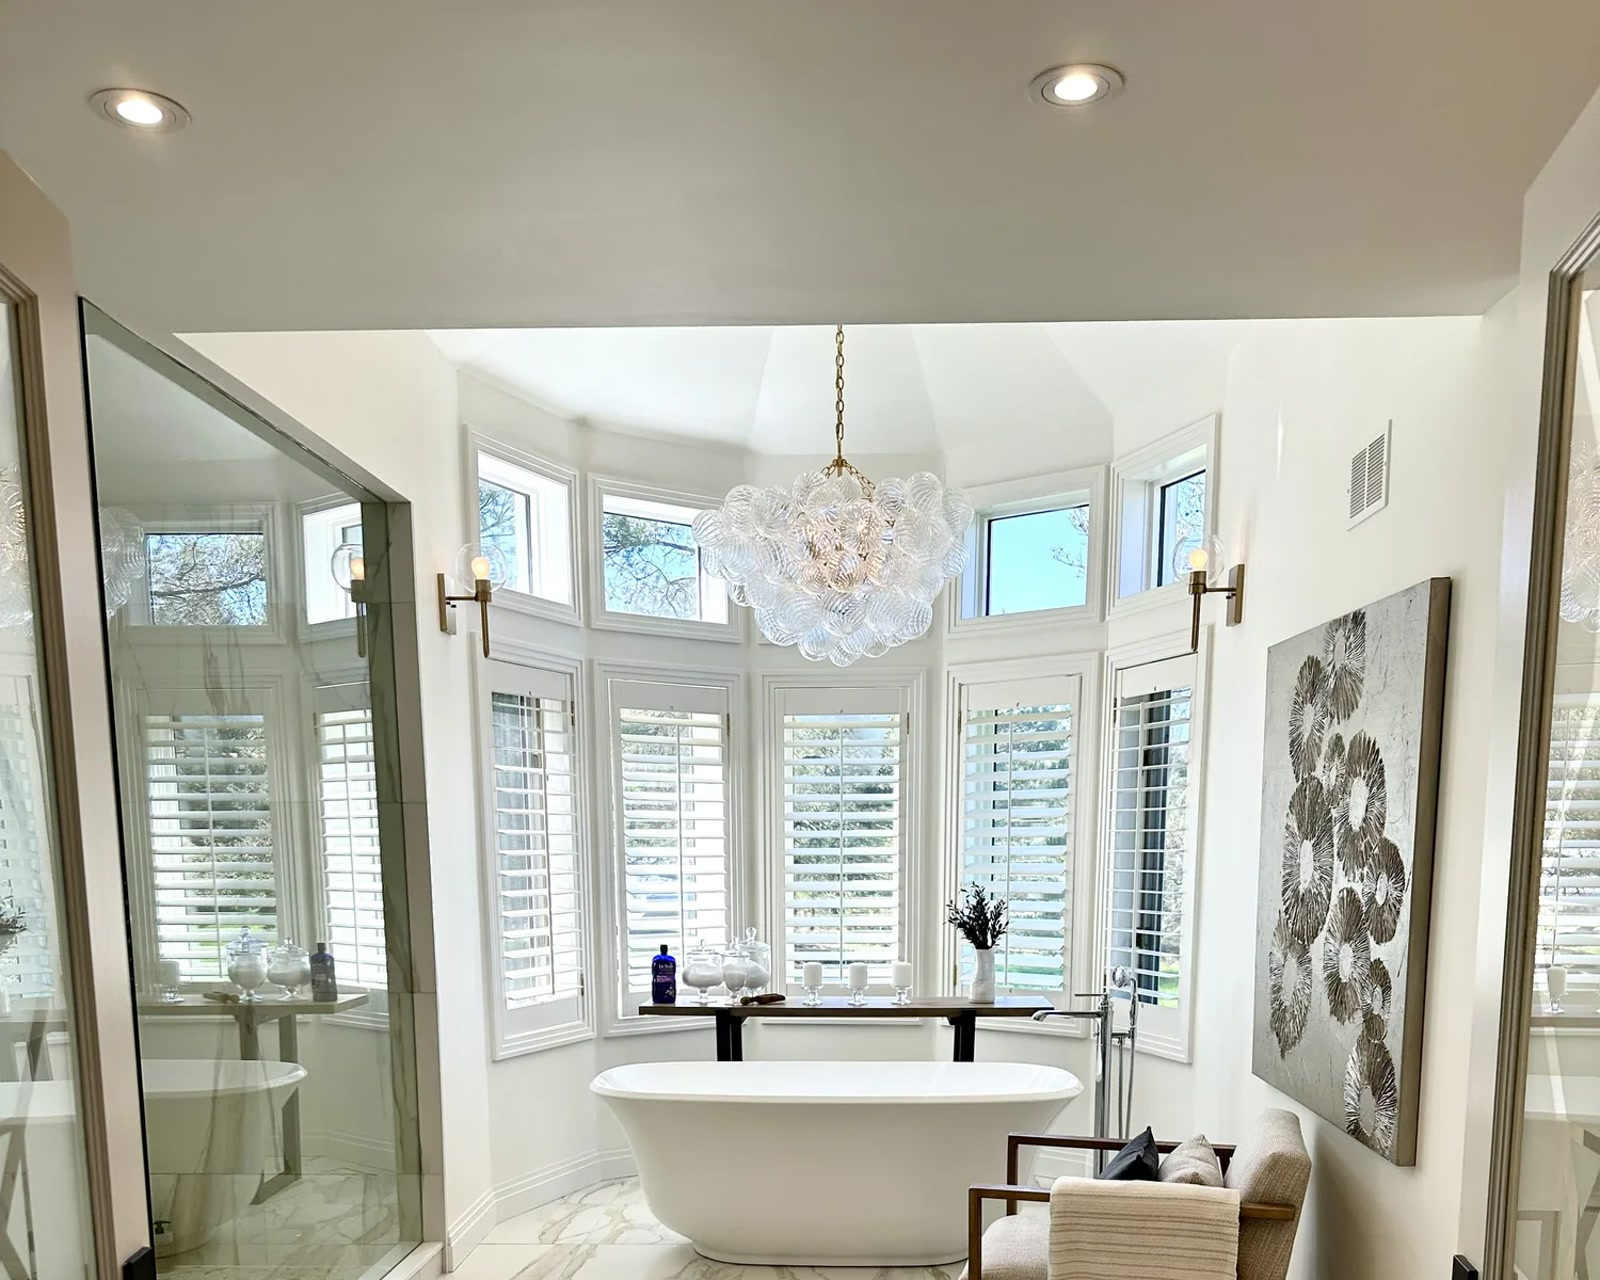
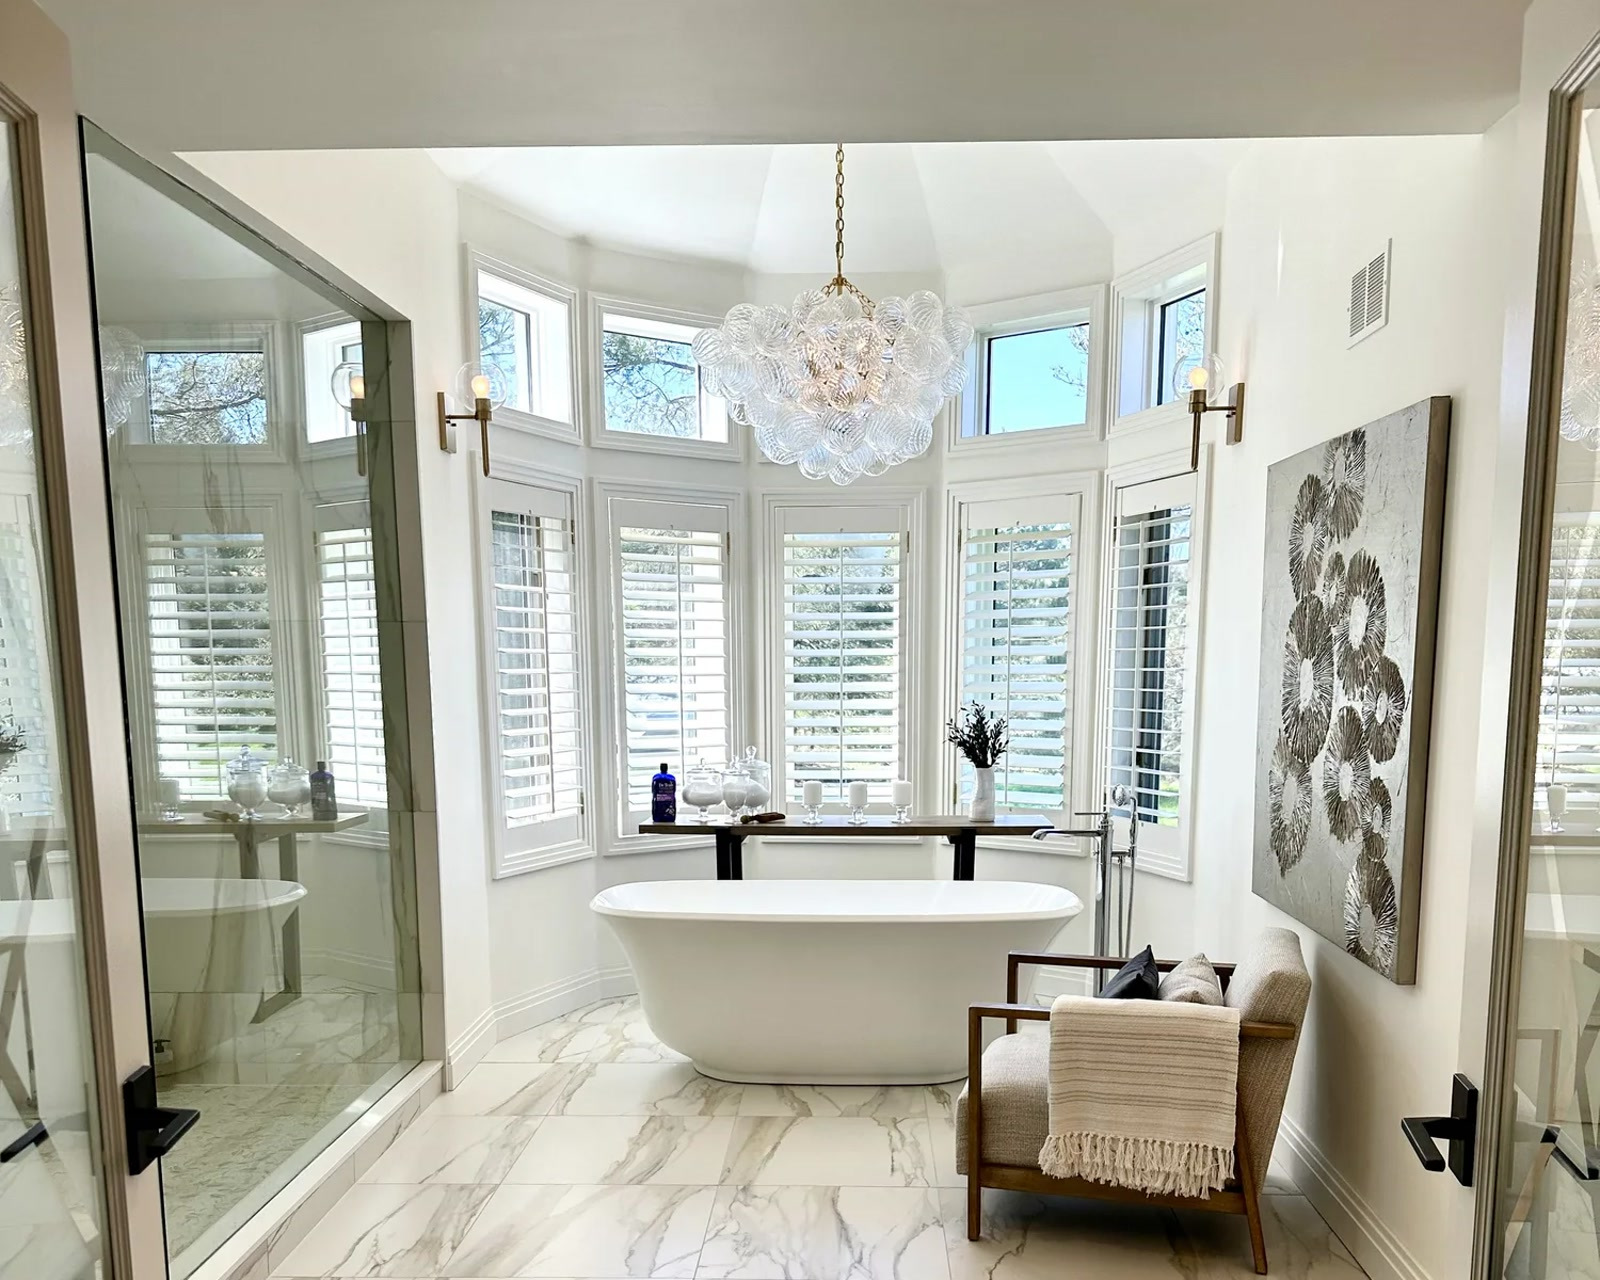
Run the journey on tablets and phones: viewport modes replace pointer gates, runtime sticky check, animated fallback, aligned bathroom pair
Claude-Session: https://claude.ai/code/session_01G3nq39hd5hgnwRfE8Lor9x

diff --git a/gohardcorp/index.html b/gohardcorp/index.html
@@ -75,7 +75,7 @@ body.paused *,body.paused *::before,body.paused *::after{animation-play-state:pa
 @media (pointer:coarse){.btn{min-height:44px}}
 
 /* ---------- the journey (pinned, scroll-driven) ---------- */
-.journey{position:relative;height:760vh}
+.journey{position:relative;height:760vh;height:760svh}
 .stage{position:sticky;top:0;height:100vh;height:100svh;overflow:hidden;background:var(--canvas)}
 .layer{position:absolute;inset:0;will-change:transform,opacity,clip-path}
 .poster,.stage video,.layer img{position:absolute;inset:0;width:100%;height:100%;object-fit:cover;background-size:cover;background-position:center}
@@ -146,9 +146,22 @@ body.paused *,body.paused *::before,body.paused *::after{animation-play-state:pa
 .stack .sc p{margin:12px 0 18px;max-width:38ch;text-shadow:var(--tshadow)}
 .stack .sc .mk{width:64px;height:44px;margin-bottom:14px}
 .stack .sc .row{display:flex;gap:10px;flex-wrap:wrap}
-@media (max-width:720px),(orientation:portrait) and (max-width:1024px),(orientation:portrait) and (pointer:coarse),(orientation:landscape) and (pointer:coarse) and (max-height:560px),(prefers-reduced-motion:reduce){
-  .journey{display:none}.stack{display:block}
+/* modes: full (tablets, laptops, desktops), lite (phones: same pinned journey, stills instead of the film), stack (reduced motion, or sticky proven broken at runtime) */
+body.mode-stack .journey{display:none}body.mode-stack .stack{display:block}
+.ch-video .ending{position:absolute;inset:0;background:url('assets/hero-ending.jpg') center/cover no-repeat;opacity:0}
+body.mode-lite .ch-video .poster,body.mode-lite .ch-video .ending,.stage.video-failed .poster,.stage.video-failed .ending{transform:scale(calc(1 + .12*var(--hold,0)))}
+body.mode-lite .ch-video .ending,.stage.video-failed .ending{opacity:clamp(0,(var(--hold,0) - .35)*1.8,1)}
+@media (max-width:1024px){.band h1,.band h2{font-size:clamp(34px,6.6vw,64px)}.ch-kitchen img{filter:none}}
+@media (max-width:600px){
+  .band{max-width:88vw}.band h1,.band h2{font-size:clamp(30px,9.4vw,46px)}.band p{font-size:15px}.band .mk{width:56px;height:38px;margin-bottom:12px}
+  .b-arrive{top:13vh;left:6vw}.b-enter{left:6vw;right:6vw;bottom:14vh;text-align:left}.b-enter h2{font-size:clamp(28px,8.6vw,40px)}
+  .b-kitchen,.b-ext{left:6vw;bottom:12vh}.b-bath{left:6vw;right:6vw;top:14vh;text-align:left}.b-bath .row{justify-content:flex-start}
+  .b-deck{bottom:8vh}.b-deck h2{font-size:clamp(26px,8vw,38px)}.band .row{gap:8px}.band .btn{padding:11px 16px;font-size:14px}
+  .hud{left:12px;bottom:12px}.hud .chip{font-size:10.5px;padding:5px 9px}.cue{display:none}
 }
+/* the stacked fallback still animates: --sp is each card's scroll progress */
+.stack .sc img,.stack .sc .bg{transform:scale(calc(1.16 - .16*var(--sp,0)));clip-path:inset(calc((1 - var(--sp,0))*6%) round calc((1 - var(--sp,0))*24px))}
+.stack .sc .tx{opacity:clamp(0,(var(--sp,0) - .25)*2.2,1);transform:translateY(calc((1 - clamp(0,(var(--sp,0) - .25)*2.2,1))*22px))}
 @media (max-height:560px){.cue,.ring,.hud{display:none}}
 
 /* ---------- chalk line signature ---------- */
@@ -307,6 +320,7 @@ footer .fine{grid-column:1/-1;font-size:12.5px;opacity:.7;margin-top:10px}
   .ba{cursor:default}.ba .after{clip-path:inset(0 0 0 50%)}.ba .handle{left:50%}
   .proc .rail i{width:100%}.proc .bubble{left:100%}
   .env::before,.env i{display:none}
+  .stack .sc img,.stack .sc .bg{transform:none;clip-path:none}.stack .sc .tx{opacity:1;transform:none}
 }
 </style>
 </head>
@@ -335,13 +349,14 @@ footer .fine{grid-column:1/-1;font-size:12.5px;opacity:.7;margin-top:10px}
     <div class="layer ch ch-video" id="ch-video" data-a="0" data-b="0.30" data-ti="0" data-to="0.06">
       <div class="poster" id="poster" aria-hidden="true"></div>
       <video id="hero-video" preload="none" muted playsinline aria-hidden="true" tabindex="-1"></video>
+      <div class="ending" aria-hidden="true"></div>
       <div class="scrim" aria-hidden="true"></div>
     </div>
     <div class="bloom" id="bloom" aria-hidden="true"></div>
-    <div class="layer ch ch-kitchen" data-a="0.30" data-b="0.50" data-ti="0.05" data-to="0.05"><img src="assets/kitchen.jpg" alt="" width="1600" height="2207"><div class="shade"></div><div class="veil"></div></div>
-    <div class="layer ch ch-bath" data-a="0.50" data-b="0.68" data-ti="0.06" data-to="0.05"><img src="assets/bath-after.jpg" alt="" width="1600" height="1280"><div class="shade"></div><div class="veil"></div></div>
-    <div class="layer ch ch-ext" data-a="0.68" data-b="0.84" data-ti="0.06" data-to="0.05"><img src="assets/exterior.jpg" alt="" width="1920" height="1152"><div class="shade"></div><div class="veil"></div></div>
-    <div class="layer ch ch-deck" data-a="0.84" data-b="1" data-ti="0.06" data-to="0"><img src="assets/deck.jpg" alt="" width="1600" height="1818"><div class="shade"></div></div>
+    <div class="layer ch ch-kitchen" data-a="0.30" data-b="0.50" data-ti="0.07" data-to="0.06"><img src="assets/kitchen.jpg" alt="" width="1600" height="2207"><div class="shade"></div><div class="veil"></div></div>
+    <div class="layer ch ch-bath" data-a="0.50" data-b="0.68" data-ti="0.08" data-to="0.06"><img src="assets/bath-after.jpg" alt="" width="1600" height="1280"><div class="shade"></div><div class="veil"></div></div>
+    <div class="layer ch ch-ext" data-a="0.68" data-b="0.84" data-ti="0.08" data-to="0.06"><img src="assets/exterior.jpg" alt="" width="1920" height="1152"><div class="shade"></div><div class="veil"></div></div>
+    <div class="layer ch ch-deck" data-a="0.84" data-b="1" data-ti="0.08" data-to="0"><img src="assets/deck.jpg" alt="" width="1600" height="1818"><div class="shade"></div></div>
 
     <svg class="ring" viewBox="0 0 48 48" aria-hidden="true"><circle cx="24" cy="24" r="20" fill="none" stroke="currentColor" stroke-width="3" stroke-dasharray="126" style="stroke-dashoffset:var(--ld,126)" transform="rotate(-90 24 24)"/></svg>
     <div class="cue" aria-hidden="true">Scroll<span></span></div>
@@ -370,7 +385,7 @@ footer .fine{grid-column:1/-1;font-size:12.5px;opacity:.7;margin-top:10px}
       <h2 data-split>More Space. More Possibilities.</h2>
       <div class="row"><a class="btn" href="#portfolio-additions">Explore Home Additions <span class="ar">→</span></a></div>
     </div>
-    <div class="band b-deck punch" data-a="0.88" data-b="1" data-ramp="0.06">
+    <div class="band b-deck punch" data-a="0.88" data-b="1" data-ramp="0.045">
       <span class="chip">Decks and outdoor living</span>
       <h2 data-split>Designed for Living. Built for Lasting Memories.</h2>
       <div class="row"><a class="btn" href="#portfolio-outdoor">Explore Outdoor Projects <span class="ar">→</span></a><a class="btn ghost" href="#book">Book a Free Consultation</a></div>
@@ -380,11 +395,11 @@ footer .fine{grid-column:1/-1;font-size:12.5px;opacity:.7;margin-top:10px}
 
 <!-- the same journey, stacked: phones, portrait tablets, reduced motion -->
 <div class="stack" id="stack">
-  <div class="sc"><div class="bg" style="background:url('assets/hero-ending.jpg') center/cover"></div><svg class="mk" aria-hidden="true"><use href="#gh"/></svg><h1>Spaces That Work as Hard as You Do.</h1><p>Family-run renovations in Cambridge, Kitchener, Waterloo and Guelph. Thoughtfully designed. Beautifully built.</p><div class="row"><a class="btn" href="#book">Book a Free Consultation</a><a class="btn ghost" href="tel:+15192121296">519-212-1296</a></div></div>
-  <div class="sc"><img src="assets/kitchen.jpg" alt="" loading="lazy"><span class="chip">Kitchen renovations</span><h2>The Heart of Your Home.</h2><div class="row"><a class="btn" href="#portfolio-kitchens">Explore Kitchen Projects <span class="ar">→</span></a></div></div>
-  <div class="sc"><img src="assets/bath-after.jpg" alt="" loading="lazy"><span class="chip">Bathroom renovations</span><h2>Every Detail Matters.</h2><div class="row"><a class="btn" href="#portfolio-bathrooms">Explore Bathroom Projects <span class="ar">→</span></a></div></div>
-  <div class="sc"><img src="assets/exterior.jpg" alt="" loading="lazy"><span class="chip">Additions and exterior transformations</span><h2>More Space. More Possibilities.</h2><div class="row"><a class="btn" href="#portfolio-additions">Explore Home Additions <span class="ar">→</span></a></div></div>
-  <div class="sc"><img src="assets/deck.jpg" alt="" loading="lazy"><span class="chip">Decks and outdoor living</span><h2>Designed for Living. Built for Lasting Memories.</h2><div class="row"><a class="btn" href="#portfolio-outdoor">Explore Outdoor Projects <span class="ar">→</span></a></div></div>
+  <div class="sc"><div class="bg" style="background:url('assets/hero-ending.jpg') center/cover"></div><div class="tx"><svg class="mk" aria-hidden="true"><use href="#gh"/></svg><h1>Spaces That Work as Hard as You Do.</h1><p>Family-run renovations in Cambridge, Kitchener, Waterloo and Guelph. Thoughtfully designed. Beautifully built.</p><div class="row"><a class="btn" href="#book">Book a Free Consultation</a><a class="btn ghost" href="tel:+15192121296">519-212-1296</a></div></div></div>
+  <div class="sc"><img src="assets/kitchen.jpg" alt="" loading="lazy"><div class="tx"><span class="chip">Kitchen renovations</span><h2>The Heart of Your Home.</h2><div class="row"><a class="btn" href="#portfolio-kitchens">Explore Kitchen Projects <span class="ar">→</span></a></div></div></div>
+  <div class="sc"><img src="assets/bath-after.jpg" alt="" loading="lazy"><div class="tx"><span class="chip">Bathroom renovations</span><h2>Every Detail Matters.</h2><div class="row"><a class="btn" href="#portfolio-bathrooms">Explore Bathroom Projects <span class="ar">→</span></a></div></div></div>
+  <div class="sc"><img src="assets/exterior.jpg" alt="" loading="lazy"><div class="tx"><span class="chip">Additions and exterior transformations</span><h2>More Space. More Possibilities.</h2><div class="row"><a class="btn" href="#portfolio-additions">Explore Home Additions <span class="ar">→</span></a></div></div></div>
+  <div class="sc"><img src="assets/deck.jpg" alt="" loading="lazy"><div class="tx"><span class="chip">Decks and outdoor living</span><h2>Designed for Living. Built for Lasting Memories.</h2><div class="row"><a class="btn" href="#portfolio-outdoor">Explore Outdoor Projects <span class="ar">→</span></a></div></div></div>
 </div>
 
 <!-- ===== Scene 7: the team ===== -->
@@ -575,7 +590,7 @@ function render(p) {
     setVar(c, 'vin', c.el, '--in', vin, 0.004); setVar(c, 'vout', c.el, '--out', vout, 0.004); setVar(c, 'vhold', c.el, '--hold', vhold, 0.006);
   }
   // the door-light bloom that carries the house into the kitchen
-  const bl = Math.sin(clamp((p - 0.265) / 0.075, 0, 1) * Math.PI);
+  const bl = Math.sin(clamp((p - 0.26) / 0.09, 0, 1) * Math.PI);
   if (Math.abs(bl - lastBloom) > 0.004) { lastBloom = bl; bloom.style.setProperty('--b', bl.toFixed(3)); }
   for (const bd of bands) {
     const f = Math.min(0.02, (bd.b - bd.a) / 3);
@@ -619,24 +634,48 @@ async function loadHeroBlob() {
 }
 function directSrc() { return new Promise((res, rej) => { video.addEventListener('canplay', () => { armVideo(); res(); }, { once: true }); video.addEventListener('error', rej, { once: true }); video.src = VIDEO_URL; video.load(); }); }
 function startBlobFetch() { if (started) return; started = true; loadHeroBlob().catch(() => directSrc().catch(failVideo)); }
-function initHeroOnce() {
-  if (initHeroOnce.done) return; initHeroOnce.done = true;
-  poster.style.backgroundImage = "url('assets/hero-poster.jpg')";
+function initHeroOnce(withFilm) {
+  if (!initHeroOnce.poster) { initHeroOnce.poster = true; poster.style.backgroundImage = "url('assets/hero-poster.jpg')"; }
+  if (!withFilm || initHeroOnce.film) return; initHeroOnce.film = true;   // phones never download the film; the poster pushes in and the ending frame fades over it
   const img = new Image(); img.onload = startBlobFetch; img.onerror = startBlobFetch; img.src = 'assets/hero-poster.jpg';
   setTimeout(startBlobFetch, 4000);
 }
 
-/* ---------- the five gates, live (must match the CSS exactly) ---------- */
-const GATES = ['(max-width: 720px)', '(orientation: portrait) and (max-width: 1024px)', '(orientation: portrait) and (pointer: coarse)', '(orientation: landscape) and (pointer: coarse) and (max-height: 560px)', '(prefers-reduced-motion: reduce)'];
-function enableScrub() {
-  if (scrubOn) return; scrubOn = true; initHeroOnce();
+/* ---------- modes: decided from the viewport and what the browser can do, never from device sniffing ---------- */
+let mode = null, stickyBroken = false, stickyChecks = 0;
+function pickMode() {
+  if (RM.matches || stickyBroken) return 'stack';
+  return Math.min(innerWidth, innerHeight) < 600 ? 'lite' : 'full';   // phones get the same journey on stills
+}
+function enableScrub(withFilm) {
+  if (scrubOn) return; scrubOn = true;
+  initHeroOnce(withFilm);
   addEventListener('scroll', onScroll, { passive: true });
   bands.forEach(b => { b.op = -1; b.k = -1; b.kb = -1; }); chapters.forEach(c => { c.vin = c.vout = c.vhold = -1; }); hudIdx = -1; lastBloom = -1;
   unpinFinalStates(); render(progress()); onScroll();
 }
 function disableScrub() { if (!scrubOn) return; scrubOn = false; removeEventListener('scroll', onScroll); if (rafId !== null) { cancelAnimationFrame(rafId); rafId = null; } }
-function applyHeroMode() { if (GATES.some(q => matchMedia(q).matches)) disableScrub(); else enableScrub(); }
-const MQLS = GATES.map(q => matchMedia(q)); MQLS.forEach(m => m.addEventListener('change', applyHeroMode));
+function applyHeroMode() {
+  const m = pickMode(); if (m === mode) return; mode = m;
+  document.body.classList.remove('mode-full', 'mode-lite', 'mode-stack'); document.body.classList.add('mode-' + m);
+  if (m === 'stack') { disableScrub(); stackTick(); } else { enableScrub(m === 'full'); }
+}
+// prove the pin: if the stage is not sticking while the journey is on screen, the browser cannot pin here; fall back to the animated stack
+function stickyCheck() {
+  if (mode === 'stack' || stickyBroken) return;
+  const r = journey.getBoundingClientRect(); if (r.top > -200 || r.bottom < innerHeight + 200) return;
+  const top = stage.getBoundingClientRect().top;
+  if (Math.abs(top) > 40) { if (++stickyChecks >= 3) { stickyBroken = true; applyHeroMode(); } } else stickyChecks = 0;
+}
+addEventListener('scroll', stickyCheck, { passive: true });
+let rsz; addEventListener('resize', () => { clearTimeout(rsz); rsz = setTimeout(applyHeroMode, 150); });
+// the stacked fallback: each card's progress through the viewport drives its reveal
+const cards = $$('.stack .sc'); const cardP = cards.map(() => -1);
+function stackTick() {
+  if (mode !== 'stack' || RM.matches) return;
+  cards.forEach((c, i) => { const r = c.getBoundingClientRect(); const p = clamp((innerHeight - r.top) / (innerHeight * 0.9), 0, 1); const q = Math.round(p * 100) / 100; if (q !== cardP[i]) { cardP[i] = q; c.style.setProperty('--sp', q); } });
+}
+addEventListener('scroll', stackTick, { passive: true });
 
 /* ---------- nav ---------- */
 const nav = $('.nav'); let navSolid = false;
@@ -705,10 +744,11 @@ form.addEventListener('submit', e => {
 /* ---------- reduced motion, both directions ---------- */
 function pinToFinalStates() { rvs.forEach(s => s.classList.add('in', 'done')); proc.style.setProperty('--p', '100%'); }
 function unpinFinalStates() { proc.style.removeProperty('--p'); lastP = -1; }
-RM.addEventListener('change', e => { if (e.matches) pinToFinalStates(); else applyHeroMode(); });
+RM.addEventListener('change', e => { if (e.matches) pinToFinalStates(); applyHeroMode(); });
 document.addEventListener('visibilitychange', () => document.body.classList.toggle('paused', document.hidden));
 if (RM.matches) pinToFinalStates();
 applyHeroMode();
+window.__gh = { get mode() { return mode; }, breakSticky() { stickyBroken = true; applyHeroMode(); } };
 })();
 </script>
 </body>
